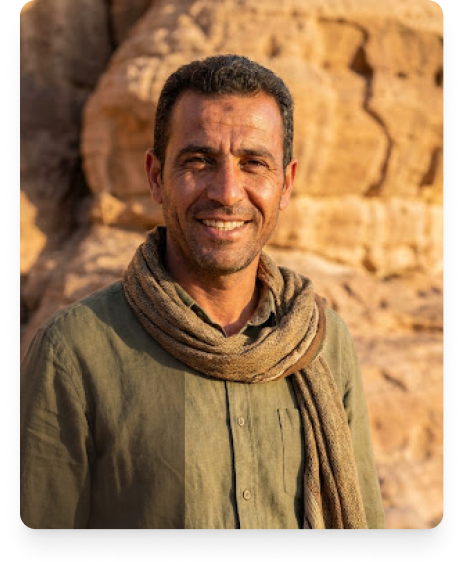
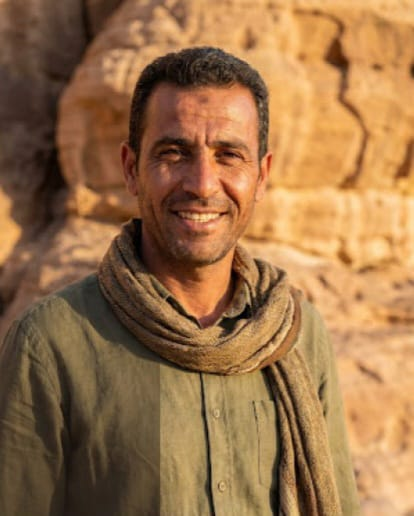
update

diff --git a/style.css b/style.css
@@ -153,7 +153,7 @@ h3 { font-size: 21px; line-height: 1.25; }
 .testimonial blockquote { font-family: 'Playfair Display', Georgia, serif; font-size: 25px; color: var(--brown-dark); line-height: 1.35; }
 .testimonial cite { display: block; margin-top: 12px; color: var(--muted); font-size: 13px; font-style: normal; }*/
 
-
+/*guid section*/
 .guide-section {  width: 100%; max-width: 1280px; margin: 0 auto; padding: 64px 104px; background-color: var(--lightpink); display: flex; justify-content: center; align-items: center;}
 .guide-container { display: flex;  gap: 48px; align-items: center; width: 100%;}
 .image-wrapper { position: relative; width: 380px; height: 460px;  flex-shrink: 0; border-radius: 16px; overflow: hidden; box-shadow: 0 10px 30px rgba(0, 0, 0, 0.08);}
@@ -164,6 +164,7 @@ h3 { font-size: 21px; line-height: 1.25; }
 .badge-text strong { font-size: 11px; letter-spacing: 0.5px; color: #222;}
 .badge-text span { font-size: 10px; color: #666;}
 .image-overlay-info { position: absolute; bottom: 0; left: 0; right: 0; padding: 24px 20px; background: linear-gradient(to top, rgba(0,0,0,0.75) 0%, rgba(0,0,0,0) 100%); color: #ffffff;}
+.image-overlay-info h3{color: white;}
 .tag { display: inline-block; background-color: rgba(255, 255, 255, 0.2); backdrop-filter: blur(4px); font-size: 9px; letter-spacing: 1px; padding: 4px 8px; border-radius: 4px; margin-bottom: 8px; text-transform: uppercase;}
 .guide-name { font-family: 'Playfair Display', serif; font-size: 20px; font-weight: 500; margin-bottom: 2px;}
 .guide-title { font-size: 11px; opacity: 0.85; font-weight: 300;}
@@ -175,7 +176,7 @@ h3 { font-size: 21px; line-height: 1.25; }
 .description { font-size: 13px; line-height: 1.6; color: #6b6057; margin-bottom: 32px;}
 .info-cards-container { display: flex; gap: 12px;  margin-bottom: 32px;}
 .info-card { background-color:var(--cream); padding: 16px; border-radius: 8px; flex: 1; display: flex; flex-direction: column; gap: 6px;}
-.info-label { font-size: 9px; letter-spacing: 1px; color:var(--muted); font-weight: 600; text-transform: uppercase;}
+.info-label { font-size: 9px; letter-spacing: 1px; color:var(--terracotta); font-weight: 600; text-transform: uppercase;}
 .info-value { font-size: 12px;  color: #2b231d; font-weight: 600; line-height: 1.3;}
 .action-btn {align-self: flex-start; background-color: #231f1d; color: #ffffff; border: none; padding: 12px 28px; border-radius: 8px; font-size: 13px; font-weight: 500; cursor: pointer; transition: background-color 0.2s ease;}
 .action-btn:hover {background-color: #3b3532;}
@@ -223,6 +224,7 @@ h3 { font-size: 21px; line-height: 1.25; }
 
 /* Footer */
 .site-footer { background: #f0e5d8; padding: 54px 0 22px; border-top: 1px solid var(--border); }
+.site-footer h6{color:var(--terracotta); font-size: 15px; letter-spacing: 0px; font-family: italic; }
 .footer-grid { display: grid; grid-template-columns: 1.5fr 1fr 1fr 1fr; gap: 40px; }
 .footer-brand p { color: var(--muted); max-width: 310px; margin: 12px 0 18px; font-size: 13px; }
 .social-links { display: flex; gap: 8px; }

diff --git a/index.html b/index.html
@@ -133,7 +133,7 @@
         </div>
       </div>
       
-      <img src="images/guied_homepage.png" alt="Tariq Al-Majali" class="guide-img" />
+      <img src="./images/guied_homepage.png" alt="Tariq Al-Majali" class="guide-img" />
       
       <div class="image-overlay-info">
         <span class="tag">SENIOR HERITAGE CUSTODIAN</span>
@@ -180,7 +180,7 @@
 
   <footer class="site-footer">
     <div class="container footer-grid">
-      <div class="footer-brand"><a class="logo" href="index.html">Jo Routes</a><p>Your guide to discovering Jordan through destinations, experiences, and personalized routes.</p><div class="social-links"><a href="#">IG</a><a href="#">FB</a><a href="#">X</a></div></div>
+      <div class="footer-brand"><a class="logo" href="index.html">Jo Routes</a><h6>Your Jordan. Your Route.</h6><p>Curating are, respectful expeditions across the Kingdom of Jordan. From the stone-cut corridors of Petra to the quiet grandeur of Wadi Rum.</p><div class="social-links"><a href="#">IG</a><a href="#">FB</a><a href="#">X</a></div></div>
       <div class="footer-column"><h4>Explore</h4><a href="#destinations">Destinations</a><a href="#experiences">Experiences</a><a href="plan.html">Plan Your Journey</a></div>
       <div class="footer-column"><h4>Jo Routes</h4><a href="#">About Us</a><a href="#">Contact</a><a href="#">FAQ</a></div>
       <div class="footer-column"><h4>Useful</h4><a href="#">Travel Tips</a><a href="#">Privacy</a><a href="#">Terms</a></div>
